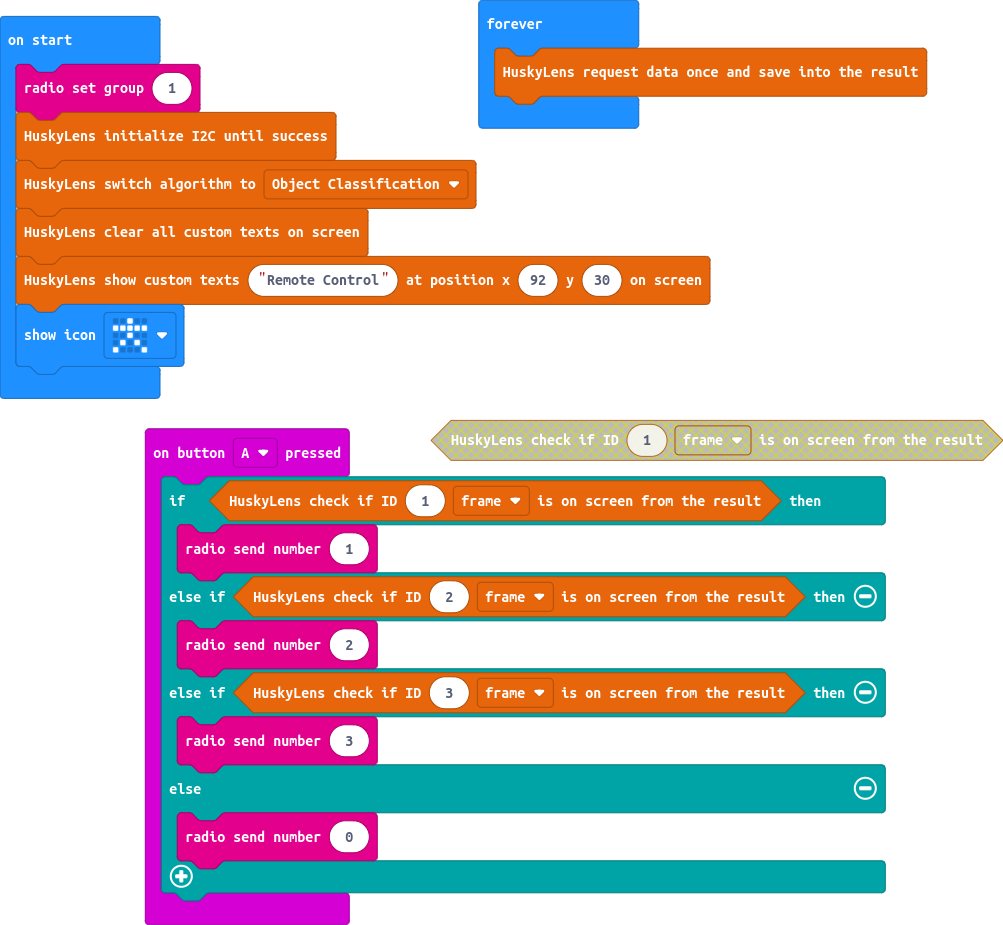
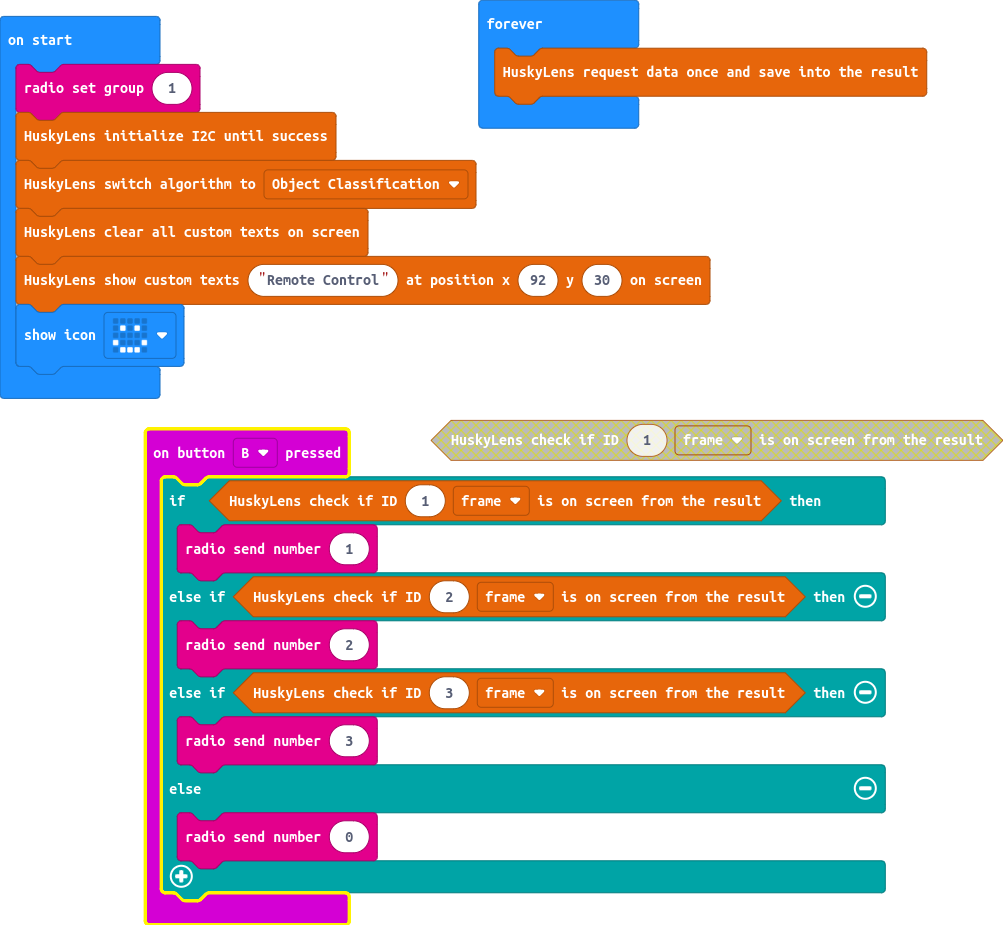
basically works - needs tidying & add more controls

Changed region(s): [[0.1236, 0.4541, 0.3709, 1.0], [0.2164, 0.9384, 0.34, 0.9686], [0.0927, 0.333, 0.1545, 0.3935]]

diff --git a/main.ts b/main.ts
@@ -1,4 +1,4 @@
-input.onButtonPressed(Button.A, function () {
+input.onButtonPressed(Button.B, function () {
     if (huskylens.isAppear(1, HUSKYLENSResultType_t.HUSKYLENSResultBlock)) {
         radio.sendNumber(1)
     } else if (huskylens.isAppear(2, HUSKYLENSResultType_t.HUSKYLENSResultBlock)) {
@@ -14,7 +14,7 @@ huskylens.initI2c()
 huskylens.initMode(protocolAlgorithm.OBJECTCLASSIFICATION)
 huskylens.clearOSD()
 huskylens.writeOSD("Remote Control", 92, 30)
-basic.showIcon(IconNames.StickFigure)
+basic.showIcon(IconNames.Happy)
 basic.forever(function () {
     huskylens.request()
 })
